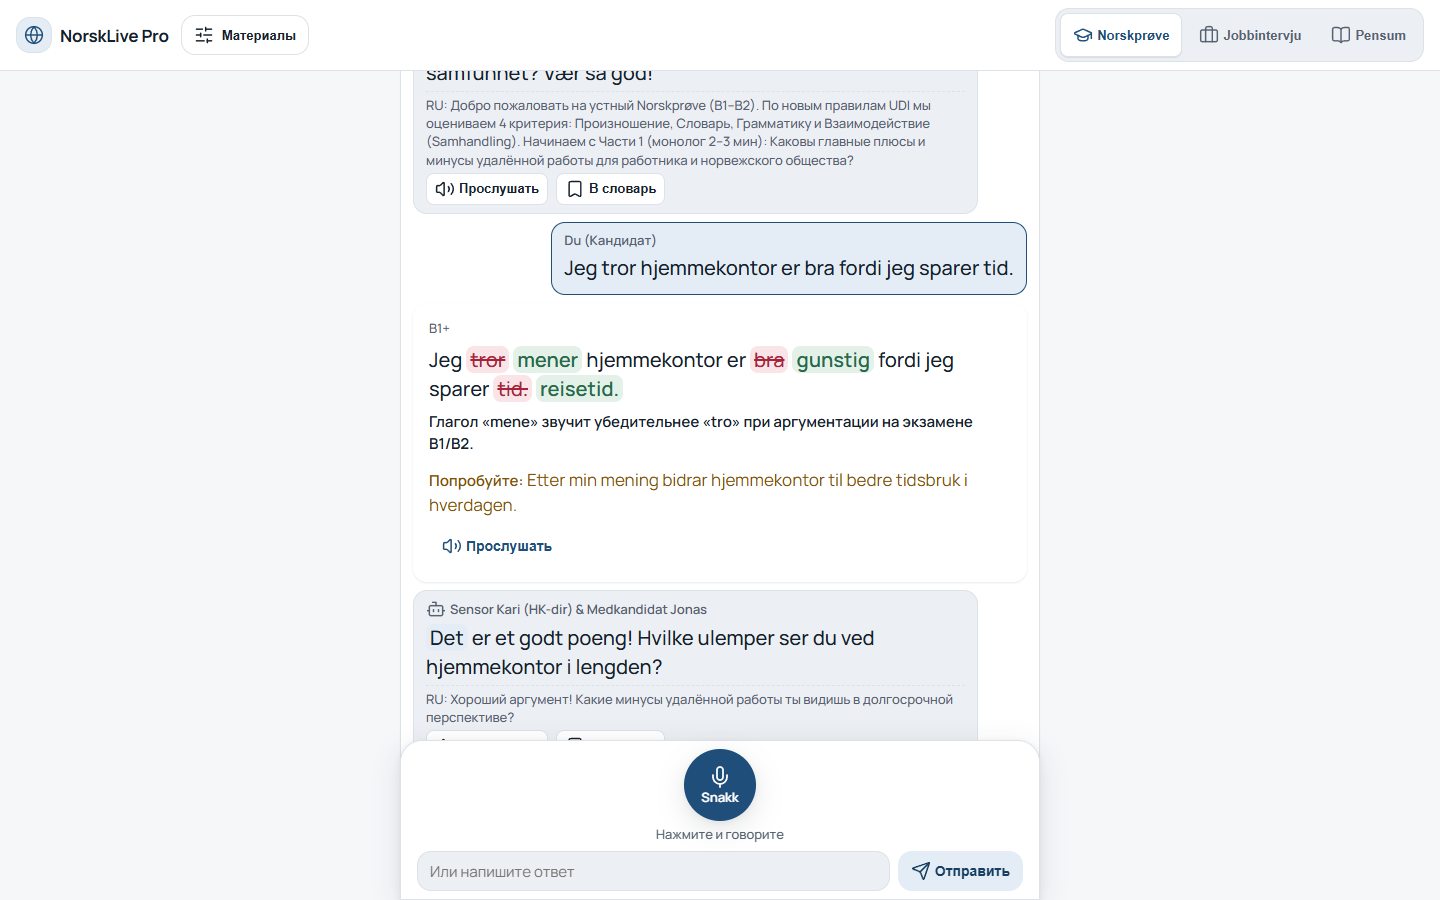
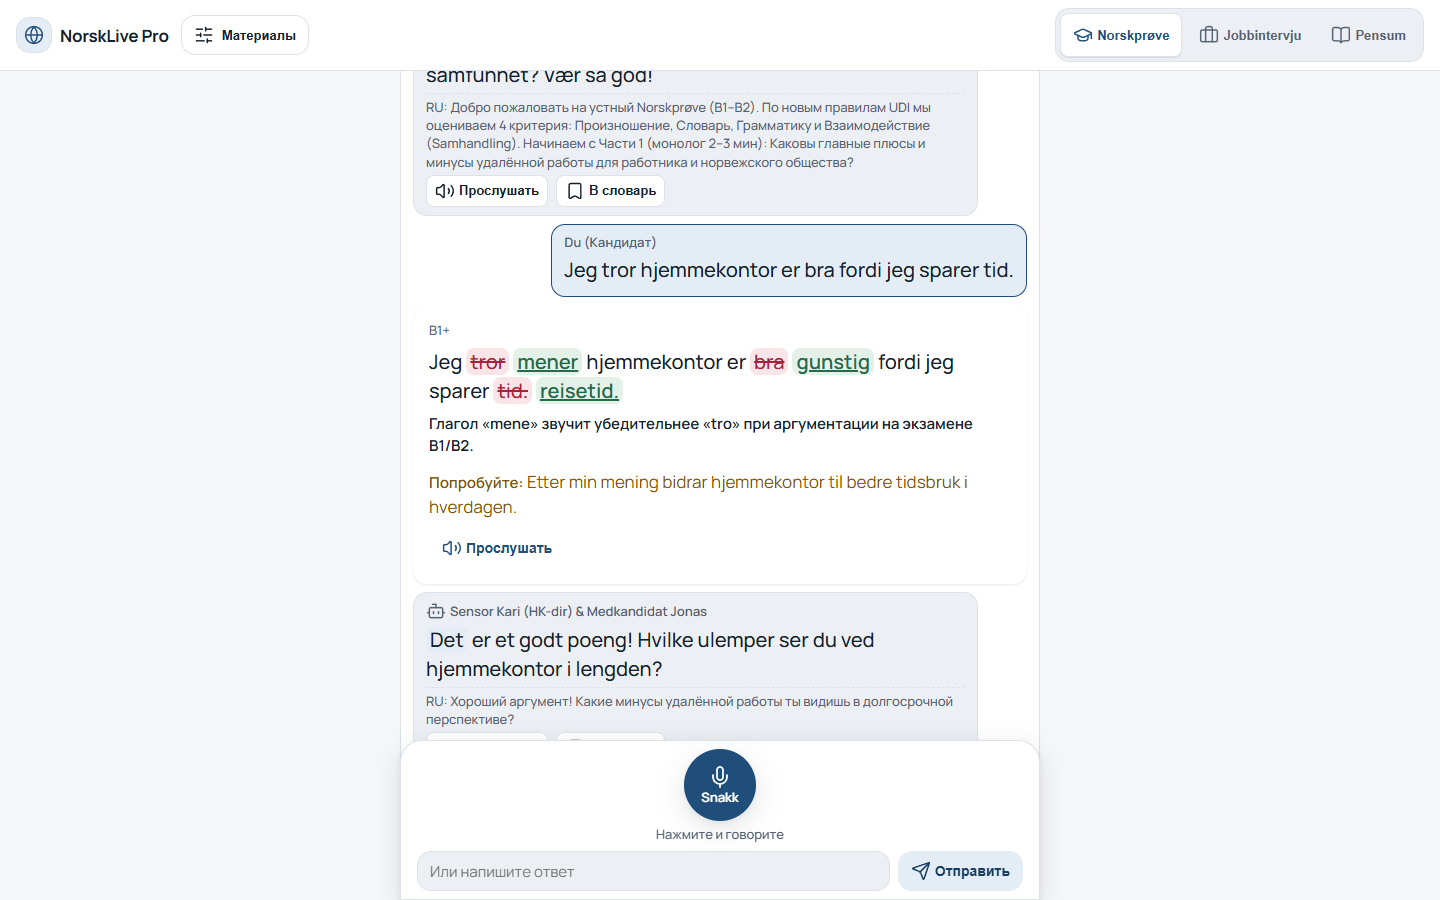
fix(studio): underline <ins> in CorrectionCard and refresh screenshots

diff --git a/src/app/studio/studio.css b/src/app/studio/studio.css
@@ -1214,7 +1214,7 @@ body {
 .correction-ins {
   color: var(--success);
   background: var(--success-soft);
-  text-decoration: none;
+  text-decoration: underline;
   padding: 0 var(--space-1);
   border-radius: var(--radius-sm);
   font-weight: 600;
